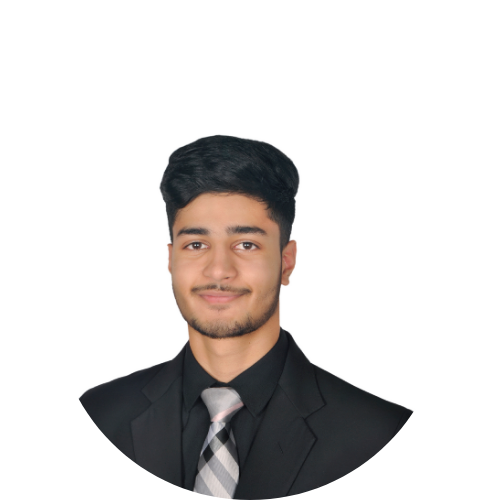
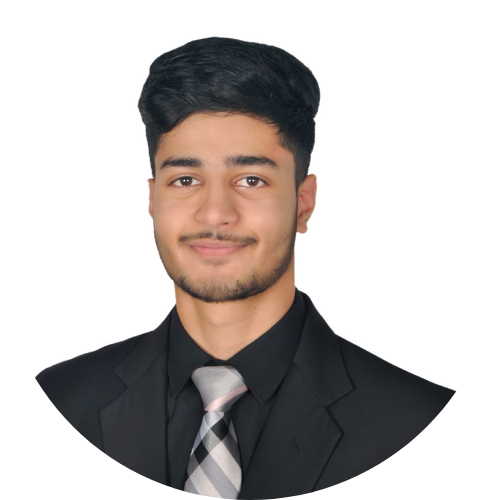
commit

Changed region(s): [[0.06, 0.06, 0.93, 1.0], [0.51, 0.99, 0.6, 1.0]]

diff --git a/public/CSS/style.css b/public/CSS/style.css
@@ -163,9 +163,11 @@ textarea {
   margin-top: 20px;
 }
 
-.container p i
+.intro-text #about-i
 {
   text-decoration: underline;
+  font-weight: 700;
+
 }
 
 .hero {
@@ -179,7 +181,7 @@ textarea {
 
 .hero-img img {
   width: 154px;
-  height: 210px;
+  height: 156px;
   border-radius: 50%;
   border: 5px solid  rgb(1, 15, 178);
   box-shadow: 0 4px 8px rgba(0, 0, 0, 0.1);
@@ -190,7 +192,7 @@ textarea {
   font-size: 1.2rem;
   font-weight: 500;
   color: #333;
-  margin-bottom: 20px;
+  margin-bottom: 10px;
   text-align: center;
 }
 
@@ -354,4 +356,10 @@ textarea {
   .buttons a {
     text-align: center;
   } 
+
+  .button-yt
+  {
+    margin-bottom: 30px;
+  }
+
 }

diff --git a/about.php b/about.php
@@ -30,12 +30,12 @@
     <div class="container">
             <h1 class="main-h1">About Me</h1>
                 <p class="intro-text">
-                    I am <i>Sarthak Gupta</i>, an aspiring<strong> Full-Stack Developer</strong> with a deep passion for technology and innovation. I specialize in creating dynamic, responsive, and user-friendly web applications using modern web technologies such as HTML, CSS, JavaScript, and frameworks like React and Node.js. My journey into the world of development started with a strong foundation in Computer Science, where I developed a keen interest in solving real-world problems through code.
+                    I am <i id="about-i">Sarthak Gupta</i>, an aspiring<strong> Full-Stack Developer</strong> with a deep passion for technology and innovation. I specialize in creating dynamic, responsive, and user-friendly web applications using modern web technologies such as HTML, CSS, JavaScript, and frameworks like React and Node.js.
                     <br><br>
-                    I am constantly learning and exploring new technologies to stay updated in this rapidly evolving field. I believe in the power of community and love connecting with like-minded professionals to share knowledge, collaborate on projects, and grow together. Currently, I am pursuing a <em>Graduate Certificate in Web Development</em> at Conestoga College in Canada, which has further enhanced my skills and opened up new opportunities for growth.
+                    I am constantly learning and exploring new technologies to stay updated in this rapidly evolving field. I believe in the power of community and love connecting with like-minded professionals to share knowledge, collaborate on projects, and grow together. Currently, I am pursuing a <em>Graduate Certificate in Web Development</em> at Conestoga College in Canada, which has further enhanced my skills.
 
                     <br><br>
-                    I'm always open to collaborating on innovative projects or discussing new ideas. Feel free to reach out to me through my portfolio or connect with me on YouTube!
+                    I'm always open to collaborating on innovative projects or discussing new ideas. Feel free to reach out to me through my portfolio!
                 </p>        
             </div>
 
@@ -46,8 +46,8 @@
             <div class="content">
                 <p class="intro-text">"Building innovative solutions, one line of code at a time."</p>
                 <div class="buttons">
-                    <a href="https://yourportfolio.com" target="_blank">View My Portfolio</a>
-                    <a href="https://youtube.com/yourchannel" target="_blank">Visit My YouTube Channel</a>
+                    <a href="https://sarthak-gupta-portfolio-website.vercel.app/" target="_blank">View My Portfolio</a>
+                    <a class="button-yt" href="https://www.youtube.com/@s4rthakgupta" target="_blank">Visit My YouTube Channel</a>
                 </div>
             </div>
         </div>
